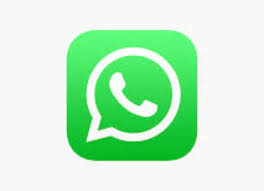
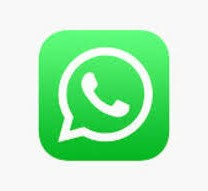
Changes added
As per suggestion of Tias Mondal

Changed region(s): [[0.1731, 0.1309, 0.8365, 0.8639]]

diff --git a/css/style.css b/css/style.css
@@ -144,10 +144,11 @@ body{
 	margin-top: 160px;
 	margin-right:250px;
 	max-width: 400px;
-	height: 300px;
+	height: 325px;
 	border: 2px solid black;
 	float: right;
 	border-radius: 5px;
+	font-size: 1.06em;
 }
 .abt{
 	margin-left: 29px;
@@ -200,40 +201,35 @@ body{
 }
 .hello{
 	font-size:1.4em;
-	font-family: 'News Cycle', sans-serif;
+	font-family: 'Crete Round', serif;
+
 }
 .avijit{
 	font-family: 'Satisfy', cursive;
 }
 .avijit span{
 	font-family: 'Play', sans-serif;
+	color: green;
 }
 .avijit a{
 	text-decoration: none;
 	color:brown;
+	font-family: 'Slabo 27px', serif;
 }
-.port{
-	color: #FFF748;
+.portfolio2{
+	border:1px white black;
+	margin-left: 20px;
 	font-family: 'Bree Serif', serif;
-	font-size: 3.5em;
-	border: 0px solid black;
-	color: #3C1A5B;
-	border-bottom-left-radius: 6px;
-	border-top-left-radius: 6px
+
 }
-.portfolio div{
-	display: inline-block;
-	margin-left: 3.5px;
- 	margin-right: 0px;
-}
-.folio{
+.port2{
+	font-size: 1.8em;
 	color: #3C1A5B;
-	font-family: 'Bree Serif', serif;
-	font-size: 3.5em;
-	border:0px solid black;
+
+}
+.folio2{
+	font-size: 1.8em;
 	color: #FFF748;
-	border-bottom-right-radius: 6px;
-	border-top-right-radius: 6px
 }
 .tm-para-acads
 {
@@ -306,12 +302,12 @@ body{
 	margin-top: 140px;
  	border-radius: 15px 15px 15px 15px;
  	box-shadow: 10px 10px 10px grey;
- 	background: #51d0de;
+ 	background: #FBEAEB;
 }
 .acads-main ol a{
 		text-decoration: none;
 		font-size: 1.05em;
-		font-family: 'Arbutus Slab', serif;
+		font-family: 'Gugi', cursive;
 }
 .current a{
 	text-decoration: none;
@@ -321,18 +317,18 @@ body{
 	margin-left: 10px;
 	font-size: 1.2em;
 	font-family: 'Exo', sans-serif;
-	color: white;
+	color: green;
 }
 .stud{
 	margin-top: 5px;
 	margin-left: 10px;
-	font-family: 'Cinzel', serif;
+	font-family: 'Roboto Slab', serif;
 	color:  #bf4aa8;
 }
 .currstud{
 	margin-top: 5px;
 	margin-left: 10px;
-	font-family: 'Cinzel', serif;
+	font-family: 'Roboto Slab', serif;
 	color:  #bf4aa8;
 }
 .past{
@@ -352,7 +348,7 @@ body{
 .hover_img a:hover span { display:block; }
 .hover_img a
 {
-	color:#d9d9d9;
+	color:#2F3C7E;
 }
 .main-contact{
 	width: 500px;
@@ -463,7 +459,7 @@ body{
 	height: 200px;
 	width: 400px;
 	font-size: 1.35em;
-	border:1px solid #51d0de;
+	border:1px solid white;
 	margin: 0 auto;
 	margin-top: 100px;
 	color:#295F2D;
@@ -473,7 +469,7 @@ body{
 	font-family: 'Cabin Sketch', cursive;
 	margin-left: 80px;
 	margin-right: 80px;
-	box-shadow: 10px 10px 10px grey;
+	box-shadow: 5px 5px 5px grey;
 	border-right: 1px solid white;
 	border-bottom: 1px solid white;
 

diff --git a/contact.html b/contact.html
@@ -19,7 +19,7 @@
 	<link href="https://fonts.googleapis.com/css?family=Fredericka+the+Great" rel="stylesheet">   
 </head>
 <link href="//maxcdn.bootstrapcdn.com/font-awesome/4.2.0/css/font-awesome.min.css" rel="stylesheet" media="all">
-	<div class="tm-top-container">
+	<!--<div class="tm-top-container">
 		<img class="sflogo hvr-grow" src="images/sflogo.JPEG" alt="sf logo" height="150px" width="150px">
 		<div class="portfolio">
 			<div class="port hvr-grow-shadow">port</div>
@@ -28,11 +28,13 @@
 			<div class="identity ">Avijit Mandal</div>
 		</div>
 
-	</div>
+	</div>-->
 	<header class="tm-header">
 		<div class="tm-container">
 			<a class="hvr-glow hvr-box-shadow-outset" href="https://www.google.com"><img class="logo" src="images/peace.png" height="50px" width="100spx" alter="logo" class="tm-logo"></a>
+			<span class="portfolio2 hvr-pulse-grow"><span class="port2">port</span><span class="folio2">folio</span></span>
 			<nav class="tm-nav">
+				
 				<ul>
 					<li><a class="hvr-grow hvr-radial-out" href="index.html">Home</a></li>
 					<li><a class="hvr-grow hvr-radial-out" href="academics.html">Academics</a></li>
@@ -49,7 +51,7 @@
 		<div class="tm-para-contact">
 			<!--<img class="hvr-glow" src="/images/profile2cpy.jpg" height="240px" width="217.5px" alt="profile_image">-->
 			<div class="main-contact">
-				<div class="main-contact-title hvr-grow "><p class="hvr-underline-from-center">Fell free to contact me</p></div>
+				<div class="main-contact-title hvr-grow "><p class="hvr-underline-from-center">Feel free to contact me</p></div>
 				<div class="main-contact-info">
 					<a class="fb-logo" href="https://www.facebook.com/avijit.mandal.716533"><img class="hvr-buzz-out" src="/images/fblogo.png" height="60px" width="60px"></a>
 					<a class="insta-logo" href="https://www.instagram.com/avijit_dak_hyd/"><img class="hvr-buzz-out" src="/images/insta.jpg" height="60px" width="60px"></a>
@@ -65,7 +67,7 @@
 					<p class=" hvr-underline-from-center">Whatsapp</p>
 				</div>
 				<div class="div-wp">
-					<img  class="hvr-grow-shadow" src="/images/whatsapp.jpg" alt="whatsapp" height="60px" width="80px" ><p class="hvr-grow-shadow">+91-8670212313</p>
+					<img  class="hvr-grow-shadow" src="/images/whatsapp.jpg" alt="whatsapp" height="60px" width="60px" ><p class="hvr-grow-shadow">+91-8670212313</p>
 				</div>
 			</div>
 		</div>

diff --git a/index.html b/index.html
@@ -13,9 +13,12 @@
 	<link href="https://fonts.googleapis.com/css?family=Gugi" rel="stylesheet"> 
 	<link href="css/hover.css" rel="stylesheet" media="all">
 	<link href="https://fonts.googleapis.com/css?family=Lobster" rel="stylesheet"> 
+	<link href="https://fonts.googleapis.com/css?family=Roboto+Slab" rel="stylesheet">
+	<link href="https://fonts.googleapis.com/css?family=Slabo+27px" rel="stylesheet">
+	<link href="https://fonts.googleapis.com/css?family=Crete+Round" rel="stylesheet">
 </head>
 <link href="//maxcdn.bootstrapcdn.com/font-awesome/4.2.0/css/font-awesome.min.css" rel="stylesheet" media="all">
-	<div class="tm-top-container">
+	<!--<div class="tm-top-container">
 		<img class="sflogo hvr-grow" src="images/sflogo.JPEG" alt="sf logo" height="150px" width="150px">
 		<div class="portfolio">
 			<div class="port hvr-grow-shadow">port</div>
@@ -24,10 +27,11 @@
 			<div class="identity ">Avijit Mandal</div>
 		</div>
 
-	</div>
+	</div>-->
 	<header class="tm-header">
 		<div class="tm-container">
 			<a class="hvr-glow hvr-box-shadow-outset" href="https://www.google.com"><img class="logo" src="images/peace.png" height="50px" width="100spx" alter="logo" class="tm-logo"></a>
+			<span class="portfolio2 hvr-pulse-grow"><span class="port2">port</span><span class="folio2">folio</span></span>
 			<nav class="tm-nav">
 				<ul>
 					<li><a class="hvr-grow hvr-radial-out" href="index.html">Home</a></li>
@@ -51,7 +55,7 @@
 					
 					<p class="hello hvr-grow">Hello there,</p>
 					<p class="avijit">
-						My self <span>AVIJIT MANDAL</span>. I am a first-year undergraduate student of <a class="hvr-underline-from-left" href="http://www.iitkgp.ac.in/"> Indian Institute of Technology, Kharagpur </a> .Enrolled in its five years course of integrated Dual Degree (B. Tech + M.Tech )
+						My self <span class="hvr-wobble-bottom">AVIJIT MANDAL</span>. I am a first-year undergraduate student of <a class="hvr-underline-from-left" href="http://www.iitkgp.ac.in/"> Indian Institute of Technology, Kharagpur </a> .Enrolled in its five years course of integrated Dual Degree (B. Tech + M.Tech )
 						in the department of Computer Science and Engineering. Please go through my portfolio site in order to know more about me.
 					</p>
 

diff --git a/academics.html b/academics.html
@@ -18,10 +18,12 @@
 	<link href="https://fonts.googleapis.com/css?family=Cookie" rel="stylesheet">
 	<link href="https://fonts.googleapis.com/css?family=Arbutus+Slab" rel="stylesheet"> 
 	<link href="https://fonts.googleapis.com/css?family=Cookie" rel="stylesheet">
+	<link href="https://fonts.googleapis.com/css?family=Roboto+Slab" rel="stylesheet">
+	<link href="https://fonts.googleapis.com/css?family=Gugi" rel="stylesheet">
 
 </head>
 <link href="//maxcdn.bootstrapcdn.com/font-awesome/4.2.0/css/font-awesome.min.css" rel="stylesheet" media="all">
-	<div class="tm-top-container">
+	<!--<div class="tm-top-container">
 		<img class="sflogo hvr-grow" src="images/sflogo.JPEG" alt="sf logo" height="150px" width="150px">
 		<div class="portfolio">
 			<div class="port hvr-grow-shadow">port</div>
@@ -30,10 +32,11 @@
 			<div class="identity ">Avijit Mandal</div>
 		</div>
 
-	</div>
+	</div>-->
 	<header class="tm-header">
 		<div class="tm-container">
 			<a class="hvr-glow hvr-box-shadow-outset" href="https://www.google.com"><img class="logo" src="images/peace.png" height="50px" width="100spx" alter="logo" class="tm-logo"></a>
+			<span class="portfolio2 hvr-pulse-grow"><span class="port2">port</span><span class="folio2">folio</span></span>
 			<nav class="tm-nav">
 				<ul>
 					<li><a class="hvr-grow hvr-radial-out" href="index.html">Home</a></li>

diff --git a/achive.html b/achive.html
@@ -16,7 +16,7 @@
 	<link href="https://fonts.googleapis.com/css?family=Cabin+Sketch|Marmelad" rel="stylesheet"> 
 </head>
 <link href="//maxcdn.bootstrapcdn.com/font-awesome/4.2.0/css/font-awesome.min.css" rel="stylesheet" media="all">
-	<div class="tm-top-container">
+<!--	<div class="tm-top-container">
 		<img class="sflogo hvr-grow" src="images/sflogo.JPEG" alt="sf logo" height="150px" width="150px">
 		<div class="portfolio">
 			<div class="port hvr-grow-shadow">port</div>
@@ -25,10 +25,11 @@
 			<div class="identity ">Avijit Mandal</div>
 		</div>
 
-	</div>
+	</div>-->
 	<header class="tm-header">
 		<div class="tm-container">
 			<a class="hvr-glow hvr-box-shadow-outset" href="https://www.google.com"><img class="logo" src="images/peace.png" height="50px" width="100spx" alter="logo" class="tm-logo"></a>
+			<span class="portfolio2 hvr-pulse-grow"><span class="port2">port</span><span class="folio2">folio</span></span>
 			<nav class="tm-nav">
 				<ul>
 					<li><a class="hvr-grow hvr-radial-out" href="index.html">Home</a></li>
